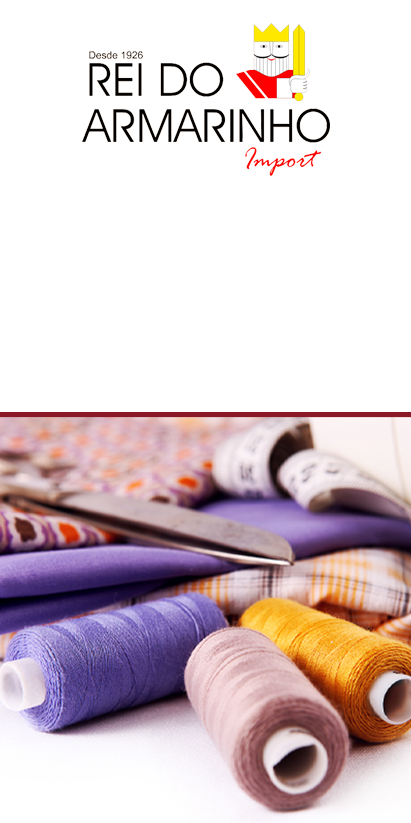
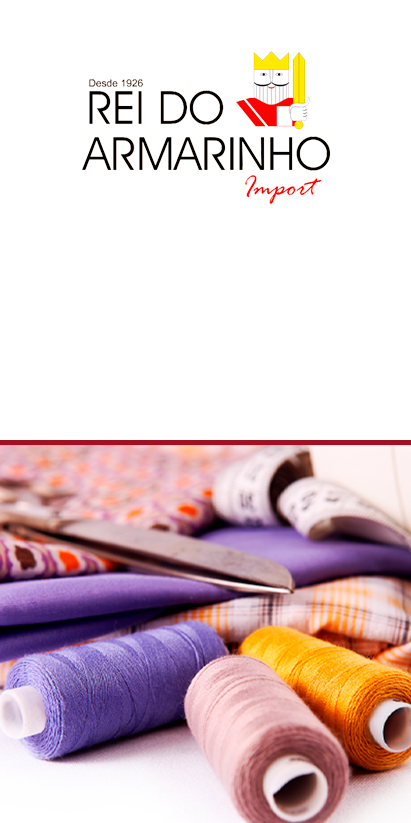
a

diff --git a/js/b2b/checkout.js b/js/b2b/checkout.js
@@ -1,0 +1,109 @@
+// WARNING: THE USAGE OF CUSTOM SCRIPTS IS NOT SUPPORTED. VTEX IS NOT LIABLE FOR ANY DAMAGES THIS MAY CAUSE. THIS MAY BREAK YOUR STORE AND STOP SALES. IN CASE OF ERRORS, PLEASE DELETE THE CONTENT OF THIS SCRIPT.
+
+
+
+$(document).ready(function () {
+  
+  
+
+
+    
+    
+    window.onhashchange = function() { 
+      $("#orderform-title").hide()
+        if($("#tracker")) {
+            $("#tracker").html("");
+        }
+      
+        if (window.location.href.indexOf("profile") != -1) {
+            
+        
+      $("#is-corporate-client").click();
+          $("#not-corporate-client").remove();
+          $(".container-order-form").prepend(`<div id="tracker" style="margin-bottom:2em"><img src='/arquivos/id-ball.png'/></div> `)
+        } else if (window.location.href.indexOf("shipping") != -1) {
+            $(".container-order-form").prepend(`<div id="tracker" style="margin-bottom:2em"><img src='/arquivos/entrega-ball.png'/></div> `)
+        } else if (window.location.href.indexOf("payment") != -1) {
+            $(".container-order-form").prepend(`<div id="tracker" style="margin-bottom:2em"><img src='/arquivos/pag-ball.png'/></div> `)
+        } 
+    }
+    
+                                               
+                                               
+                                               
+                                               
+                                               
+                                               
+                                               
+setTimeout(function(){
+    $(".srp-content").append("<p id='fob' style='color: #333;font-weight:600;display:none'>Frete FOB (transportadora indicada pelo cliente).<br/>Entraremos em contato para confirmar a transportadora.</p>");
+                            
+  if($(".srp-delivery-select optgroup").length > 1) {
+    $(".srp-delivery-header").append("<span style='display:block'>Clique abaixo para ver todas as opções de frete</span>")
+  }
+
+},2000)
+
+
+
+
+
+
+
+
+setInterval(function(){
+    if($(".srp-delivery-select").val() == "CHEAPEST" || $(".srp-delivery-select").val() == "Normal") {
+$("#fob").show();
+$($(".full-cart .summary-totalizers .monetary")[1]).text("A combinar");
+$(".shipping-estimate-date").text("");
+$(".shipping-estimate-detail").text("A combinar");
+      $("#sla-option-CHEAPEST").text("Frete FOB - A combinar")
+      $(".srp-delivery-current-many__price").text("A combinar");
+      $(".srp-delivery-current-many__sla").text("A combinar");
+      $(".srp-delivery-current-many__name").text("Frete FOB");
+      $($(".shp-option-text-label")[0]).text("Frete FOB");
+       $($(".shp-option-text-time span")[0]).text("A combinar");
+        $($(".shp-option-text-price")[0]).text("A combinar");
+
+
+        $("#sla-option-Normal").text("Frete FOB - A combinar");
+        $($(".srp-delivery-select optgroup")[0]).attr("label", "Frete FOB")
+   
+
+    } else if($(".srp-shipping-current-single__sla")) {
+      
+      if($(".full-cart .summary-totalizers .monetary").text().includes("Grátis")){$($(".full-cart .summary-totalizers .monetary")[1]).text("A combinar")}
+      
+      $(".shipping-estimate-date").text("");
+$(".shipping-estimate-detail").text("A combinar");
+      
+      $(".srp-shipping-current-single__price").text("A combinar");
+      $(".srp-shipping-current-single__sla").text("Frete FOB");
+      $(".srp-shipping-current-single__name").text("Frete FOB");
+      $($(".shp-option-text-label")[0]).text("Frete FOB");
+      
+      setTimeout(()=>{ 
+        $($(".shp-option-text-price")[0]).text("A combinar");
+        $(".vtex-omnishipping-1-x-leanShippingTextLabelSingle").text("Frete FOB")
+                     
+                     },1000)
+     
+   
+      $("#fob").show();
+      
+    }  else {
+        $("#fob").hide();
+    } 
+
+
+    if($(".srp-delivery-select optgroup").length > 1) {
+        $(".thereismore").remove()
+        $(".srp-delivery-header").append("<span class='thereismore' style='display:block'>Clique abaixo para ver todas as opções de frete</span>")
+      }
+},1000)
+        
+      
+        
+        
+        
+});

diff --git a/js/cadastrob2b.js b/js/cadastrob2b.js
@@ -188,7 +188,7 @@ $('#teminscricao').click(()=>{
 
 
 
-function clientSave()
+async function clientSave()
 {
 
 
@@ -207,27 +207,55 @@ function clientSave()
         "telefone": $("#telefone").val(),
         "email": $("#email").val(),
         "complemento": $("#complemento").val()
-	};
+    };
+    
 
-	var urlSaveDadosUser = '/api/dataentities/BC/documents/';
+    let alreadyRequested = false;
+    let cnpjchecker = jsonSaveDadosUser.cnpj.replace(/[\s-/,]+/g, '');
+    let results = await fetch(`/api/dataentities/BC/search?_fields=cnpj&cnpj=*${cnpjchecker}*`, {
+        method: "GET",
+        headers: {
+          'Content-Type': 'application/json', "Accept": "application/vnd.vtex.ds.v10+json"
+        }
+      })
+        .then(response => {
+          return response.json();
+        });
+      console.log(results);
+      
+      if(results.length >= 1 ) {
+        alreadyRequested = true;
+      }
 
-	$.ajax({
-		headers: {
-			'Content-Type': 'application/json',
-		},
-		data: JSON.stringify(jsonSaveDadosUser),
-		type: 'PATCH',
-		url: urlSaveDadosUser,
-		success: function (data) {
-		  console.log(data);
-		  $("div#messageSuccess").removeClass("hide");
-		 
-		},
-		error: function (data) {
-		  console.log(data);
-		  $("div#messageError").removeClass("hide");
-		}
-	});
+      if(alreadyRequested) {
+          alert("Seu formulário de cadastro já foi enviado, aguarde sua aprovação.");
+      } else {
+          console.log("nao existo ainda")
+
+        var urlSaveDadosUser = '/api/dataentities/BC/documents/';
+
+        $.ajax({
+            headers: {
+                'Content-Type': 'application/json',
+            },
+            data: JSON.stringify(jsonSaveDadosUser),
+            type: 'PATCH',
+            url: urlSaveDadosUser,
+            success: function (data) {
+              console.log(data);
+              $("div#messageSuccess").removeClass("hide");
+             
+            },
+            error: function (data) {
+              console.log(data);
+              $("div#messageError").removeClass("hide");
+            }
+        });
+      }
+
+
+
+
 }
 
 function clientValidate()

diff --git a/html/atacado.html b/html/atacado.html
@@ -95,7 +95,7 @@
 #buttons-selector {
     display: block;
     width: 100%;
-    margin-top: 10%;
+    margin-top: 5%;
 
 }
 
@@ -115,11 +115,11 @@
 
         <div class="container-fluid">
             <div class="row">
-                <div class="col-xs-12" style="text-align: center;">
+                <div class="col-xs-12" style="text-align: center;margin-top: 2em;">
                     <h4 style="color: #931A29">ATACADO | ACESSO EXCLUSIVO.</h4>
                     <div id="buttons-selector">
-                        <a class="btn-hollow" href="atacado.reidoarmarinho.com.br/Sistema/401">ME CADASTRAR</a>
-                        <a class="btn-basic" href="atacado.reidoarmarinho.com.br/login">ENTRAR</a>
+                        <a class="btn-hollow" href="https://atacado.reidoarmarinho.com.br/Sistema/401">ME CADASTRAR</a>
+                        <a class="btn-basic" href="https://atacado.reidoarmarinho.com.br/login">ENTRAR</a>
                     </div>
                 </div>
             </div>
